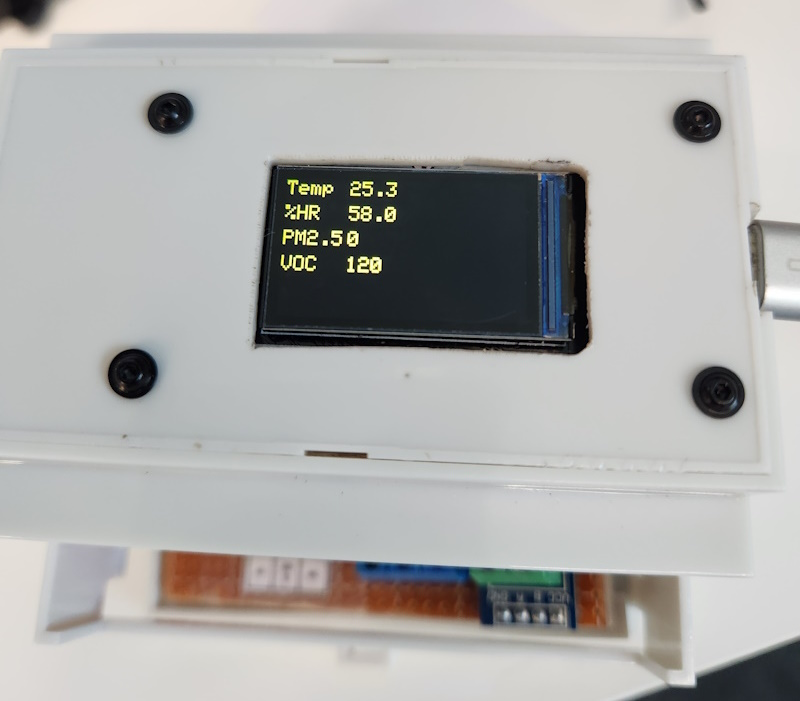
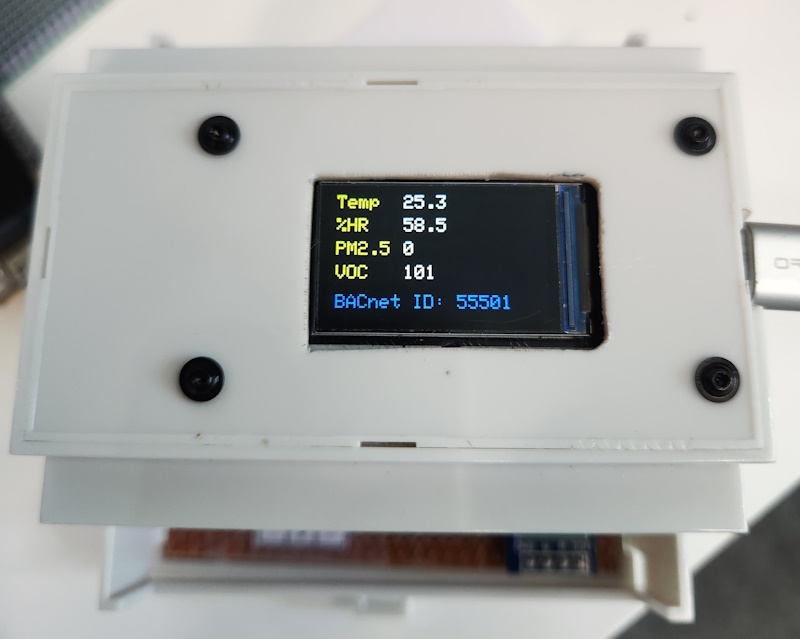
Update display footer and docs

diff --git a/main/display.cpp b/main/display.cpp
@@ -13,22 +13,31 @@ static TFT_eSPI tft = TFT_eSPI();
 #define DISP_WIDTH 320
 #define DISP_HEIGHT 170
 
+// Global horizontal guard offset for panels that clip at the left edge.
+#define DISP_GLOBAL_X_OFFSET 8
+
 // Slight inset to keep text away from the physical left edge.
-#define DISP_TEXT_X 41
+#define DISP_TEXT_X (41 + DISP_GLOBAL_X_OFFSET)
 
 // Top inset to keep the first row fully visible.
 #define DISP_TEXT_Y 20
 
 // Four-row layout for Temp, humidity, PM2.5, and VOC.
 #define DISP_ROW_SPACING 25
-#define DISP_VALUE_X 105
+#define DISP_VALUE_X (105 + DISP_GLOBAL_X_OFFSET)
 
 // Display update region constants (avoid recalculation on every refresh)
-#define VALUE_X         105
+#define VALUE_X         (115 + DISP_GLOBAL_X_OFFSET)
 #define VALUE_Y         20
 #define VALUE_WIDTH     135
 #define VALUE_HEIGHT    24
 #define ROW_SPACING     25
+
+// Footer at the bottom of the landscape display for BACnet ID and IPv4.
+#define FOOTER_Y        126
+#define FOOTER_X        DISP_TEXT_X
+#define FOOTER_WIDTH    DISP_WIDTH
+#define FOOTER_HEIGHT   16
 
 extern "C" void display_init(void)
 {
@@ -73,9 +82,31 @@ extern "C" void display_update_values(float av1, float av2, float av3, float av4
     const float values[4] = { av1, av2, av3, av4 };
     const char *formats[4] = { "%.1f", "%.1f", "%.0f", "%.0f" };
 
+    tft.setTextColor(TFT_WHITE, TFT_BLACK);
+    tft.setTextSize(2);
+
     for (int i = 0; i < 4; i++) {
         tft.setCursor(VALUE_X, VALUE_Y + i * ROW_SPACING);
         snprintf(buf, sizeof(buf), formats[i], values[i]);
         tft.print(buf);
     }
+}
+
+extern "C" void display_update_footer(unsigned int bacnet_device_id, const char *ip_address)
+{
+    char footer_text[32];
+    (void)ip_address;
+
+    snprintf(footer_text, sizeof(footer_text), "BACnet ID: %u", bacnet_device_id);
+
+    tft.fillRect(0, FOOTER_Y, FOOTER_WIDTH, FOOTER_HEIGHT, TFT_BLACK);
+    tft.setTextColor(TFT_BLUE, TFT_BLACK);
+    tft.setTextSize(2);
+
+    tft.setCursor(FOOTER_X, FOOTER_Y);
+    tft.print(footer_text);
+
+    // Restore primary style used for value rows.
+    tft.setTextColor(TFT_WHITE, TFT_BLACK);
+    tft.setTextSize(2);
 }

diff --git a/main/main.c b/main/main.c
@@ -77,6 +77,32 @@ static bool wifi_connected_now(void)
     return esp_wifi_sta_get_ap_info(&ap_info) == ESP_OK;
 }
 
+static void wifi_ip_string_now(char *out, size_t out_len)
+{
+    if (!out || out_len == 0) {
+        return;
+    }
+
+    out[0] = '\0';
+    if (!USER_ENABLE_BACNET_IP) {
+        snprintf(out, out_len, "No IP");
+        return;
+    }
+
+    esp_netif_t *netif = esp_netif_get_handle_from_ifkey("WIFI_STA_DEF");
+    if (!netif) {
+        snprintf(out, out_len, "No IP");
+        return;
+    }
+
+    esp_netif_ip_info_t ip_info = {0};
+    if (esp_netif_get_ip_info(netif, &ip_info) == ESP_OK && ip_info.ip.addr != 0) {
+        snprintf(out, out_len, IPSTR, IP2STR(&ip_info.ip));
+    } else {
+        snprintf(out, out_len, "No IP");
+    }
+}
+
 static void bacnet_log_whois_iam(const uint8_t *apdu, int apdu_len, const char *link)
 {
     if (!apdu || apdu_len < 2) {
@@ -425,7 +451,10 @@ void app_main(void)
             float av2 = Analog_Value_Present_Value(2);
             float av3 = Analog_Value_Present_Value(3);
             float av4 = Analog_Value_Present_Value(4);
+            char ip_text[20];
+            wifi_ip_string_now(ip_text, sizeof(ip_text));
             display_update_values(av1, av2, av3, av4);
+            display_update_footer(USER_BACNET_DEVICE_INSTANCE, ip_text);
         }
         
         vTaskDelay(pdMS_TO_TICKS(1000));

diff --git a/main/display.h b/main/display.h
@@ -11,6 +11,9 @@ void display_init(void);
 /* Update display with BACnet object values */
 void display_update_values(float av1, float av2, float av3, float av4);
 
+/* Update bottom footer with BACnet device instance and current IPv4 address. */
+void display_update_footer(unsigned int bacnet_device_id, const char *ip_address);
+
 /* Compatibility hook kept for the main loop; the reference display does not use it. */
 void display_set_link_status(bool wifi_connected, bool mstp_connected);
 

diff --git a/README.md b/README.md
@@ -28,7 +28,7 @@ You can easily add extra BACnet objects and map them to ESP32 GPIO for analog an
 
 
 ## Photos
-![Device](docs/images/02.jpg)
+![Device](docs/images/01.jpg)
 ![Device](docs/images/03.jpg)
 ![Device](docs/images/04.jpg)
 ![Wiring](docs/images/ESP32-SEN54_WROM32_pinout.jpg)